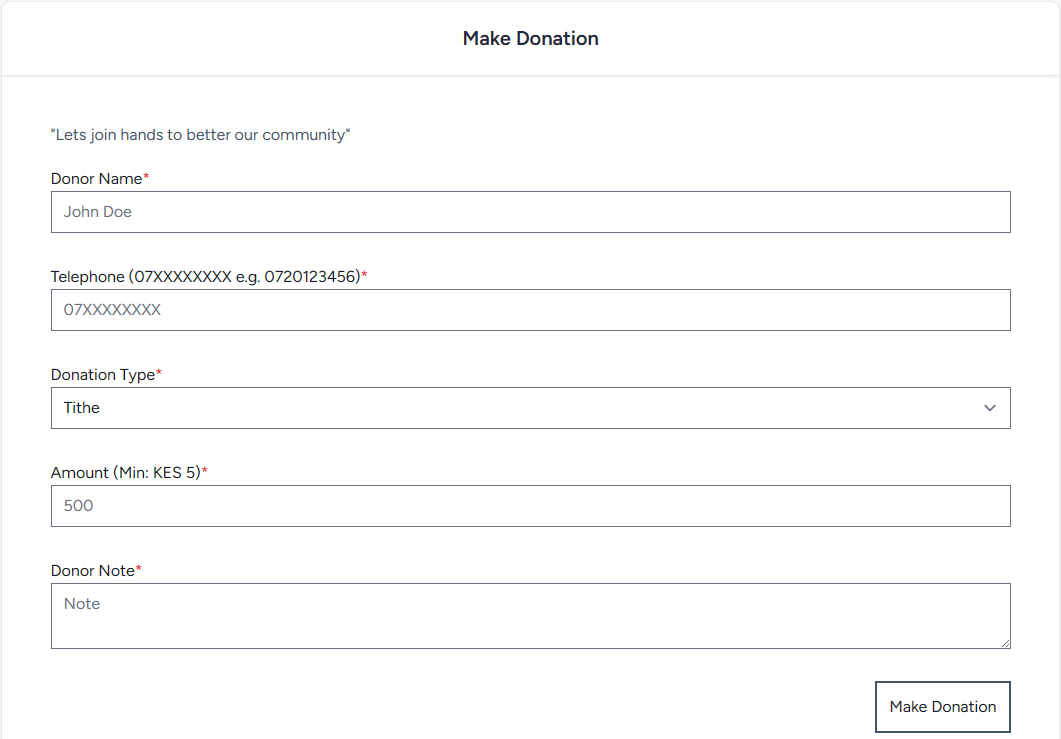
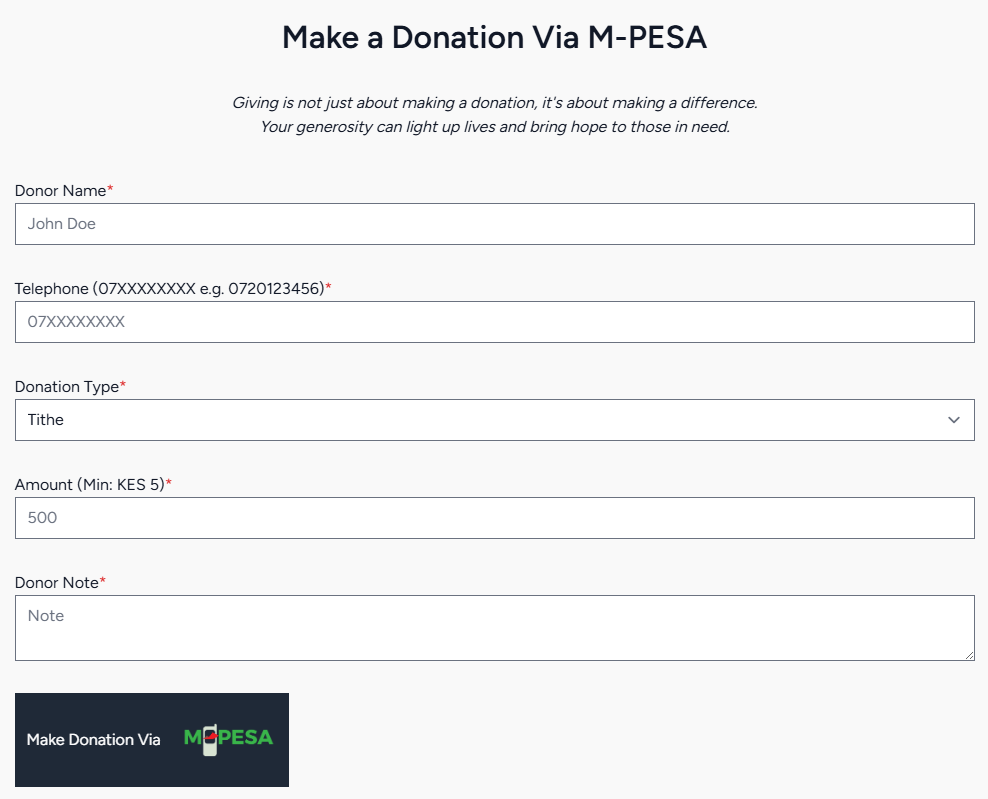
Updated Screenshot

diff --git a/resources/views/pages/index.blade.php b/resources/views/pages/index.blade.php
@@ -45,7 +45,7 @@
                     <textarea  name = "donor_note" id = "donor-note" title = "Donor Note" placeholder="Note" required>{{ old("donor_note") }}</textarea>
                 </div>
         
-                <button class="p-3 bg-gray-800 text-white text-center" type="submit">Make Donation Via<br><img src = "{{ asset("img/mpesa-logo.svg") }}" style = "height: 70px"></button>
+                <button class="p-3 bg-gray-800 text-white text-center" style = "display: flex; align-items: center; gap: 20px" type="submit">Make Donation Via <img src = "{{ asset("img/mpesa-logo.svg") }}" style = "height: 70px"></button>
             </form>
         </div>
     </div>
